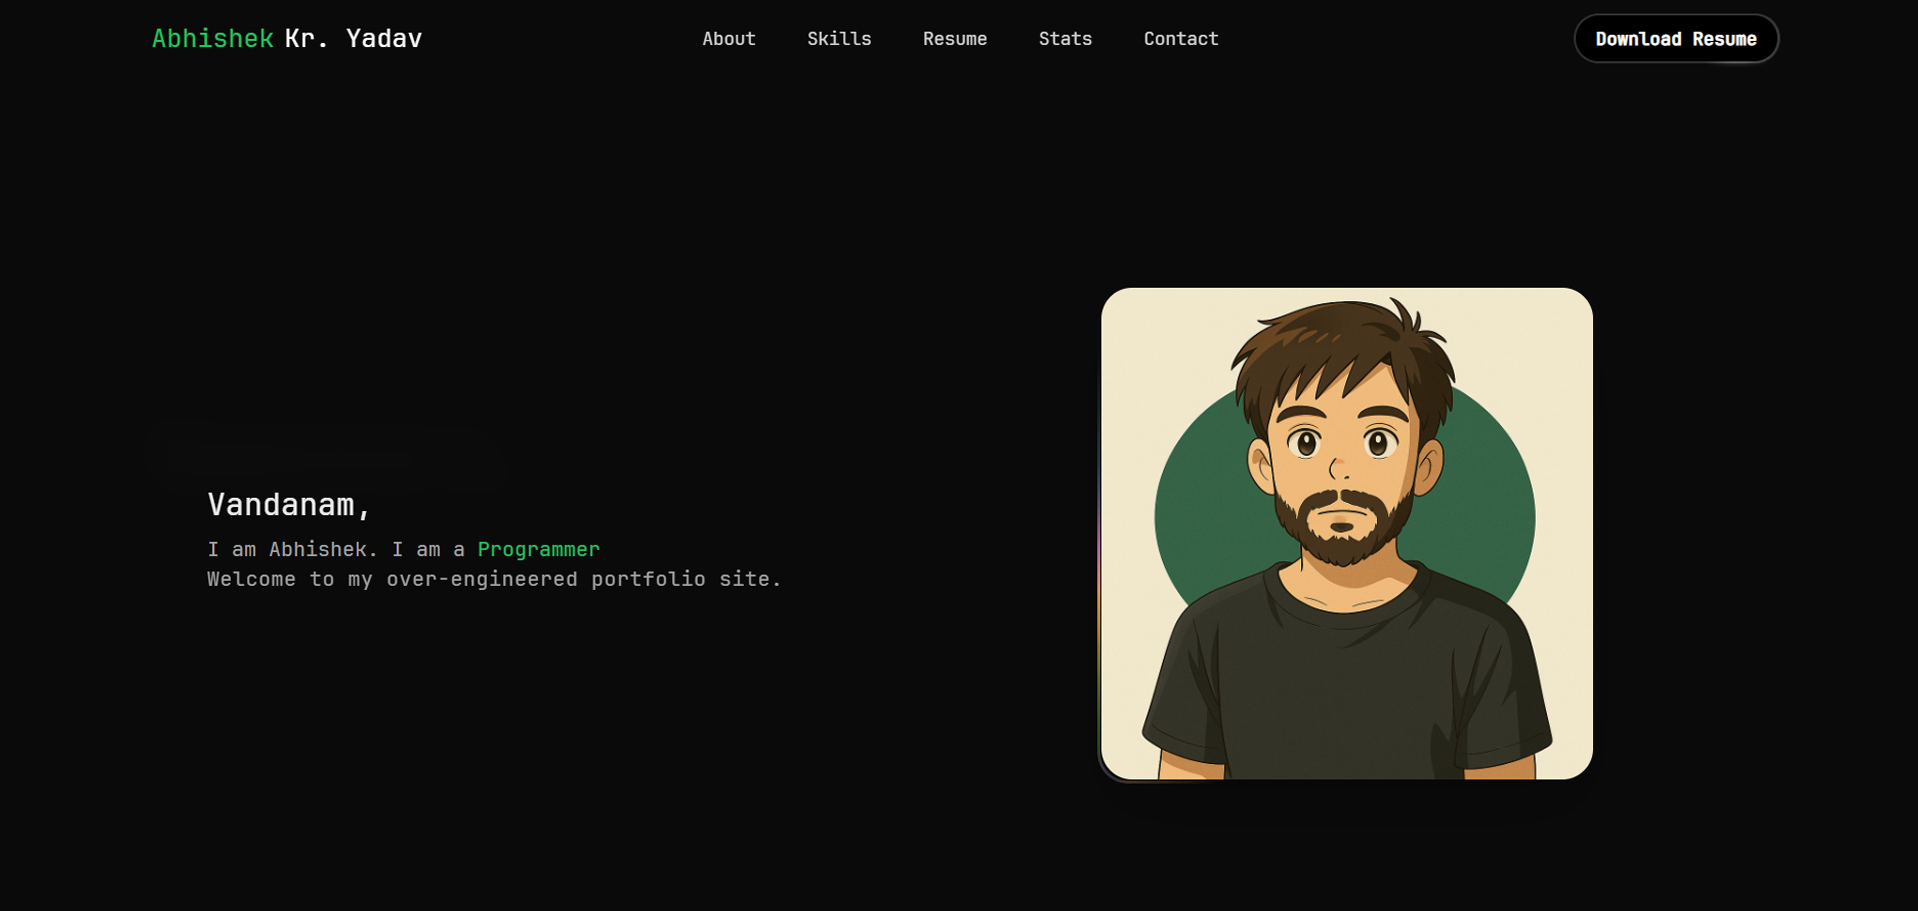
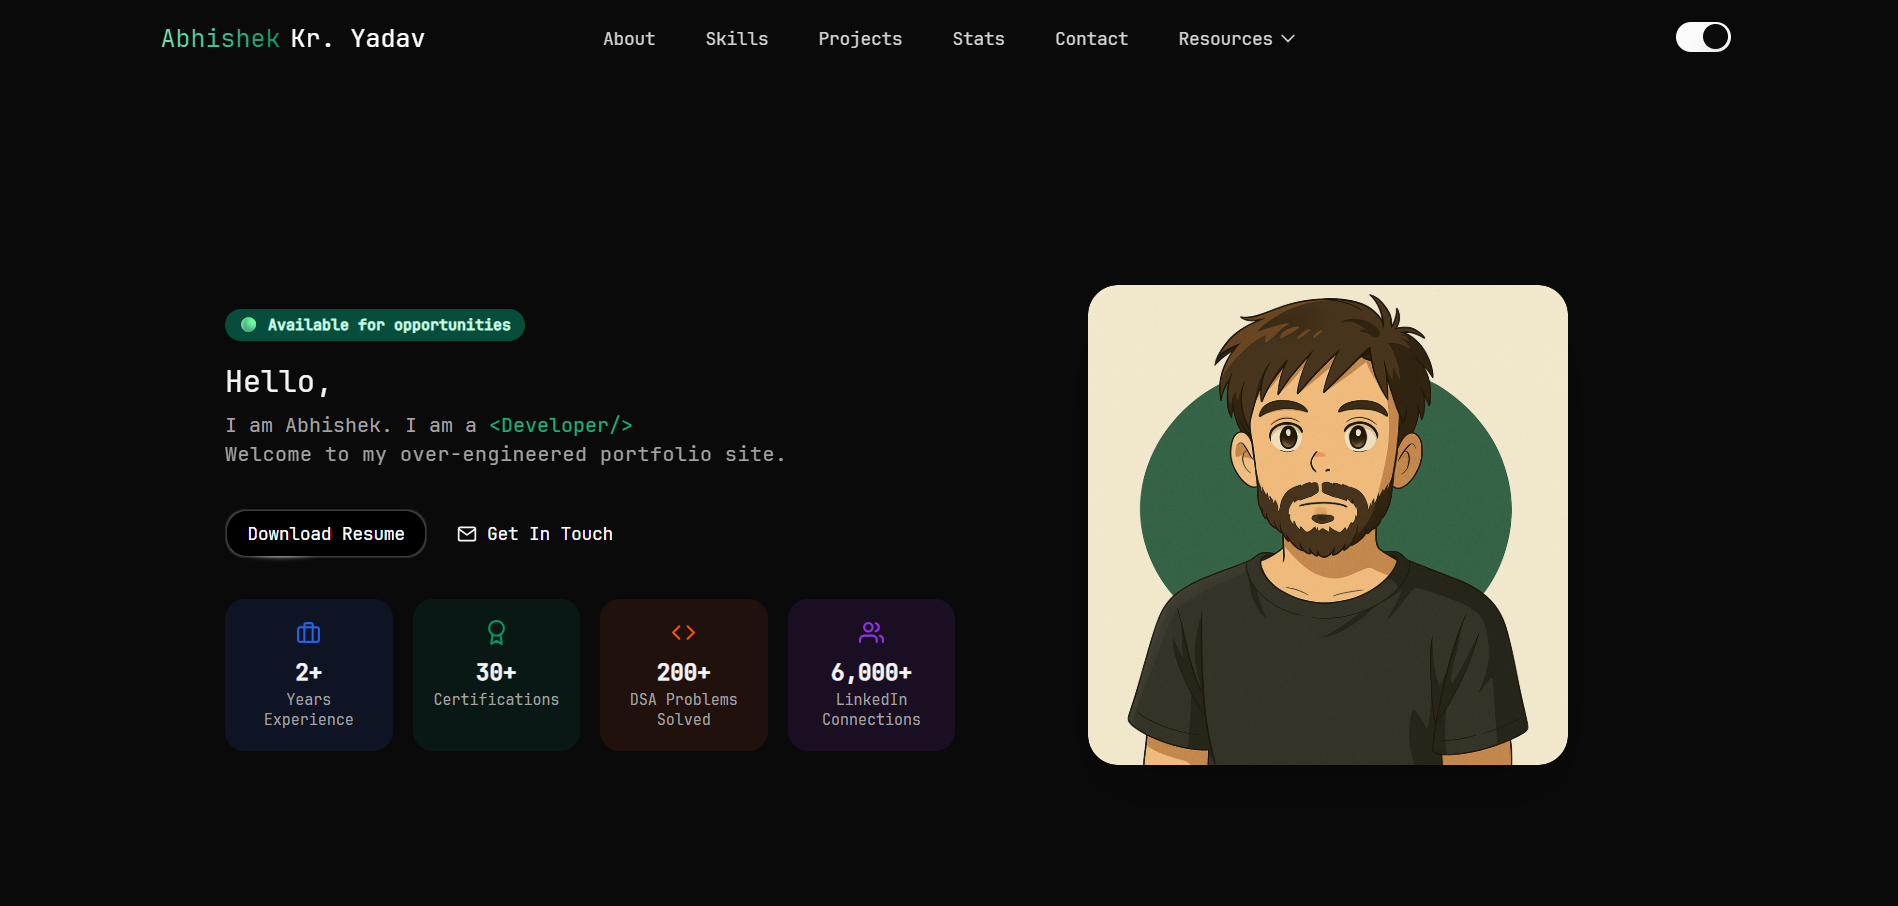
linkedin followers updated and portfolio thumb updated

diff --git a/src/components/HeroSection.tsx b/src/components/HeroSection.tsx
@@ -57,7 +57,7 @@ export default function HeroSection(): JSX.Element {
       animateValue(0, 2, 1500, (val) =>
         setAnimatedStats((prev) => ({ ...prev, experience: val }))
       );
-      animateValue(0, 6000, 2000, (val) =>
+      animateValue(0, 7000, 2000, (val) =>
         setAnimatedStats((prev) => ({ ...prev, followers: val }))
       );
       animateValue(0, 30, 1200, (val) =>
